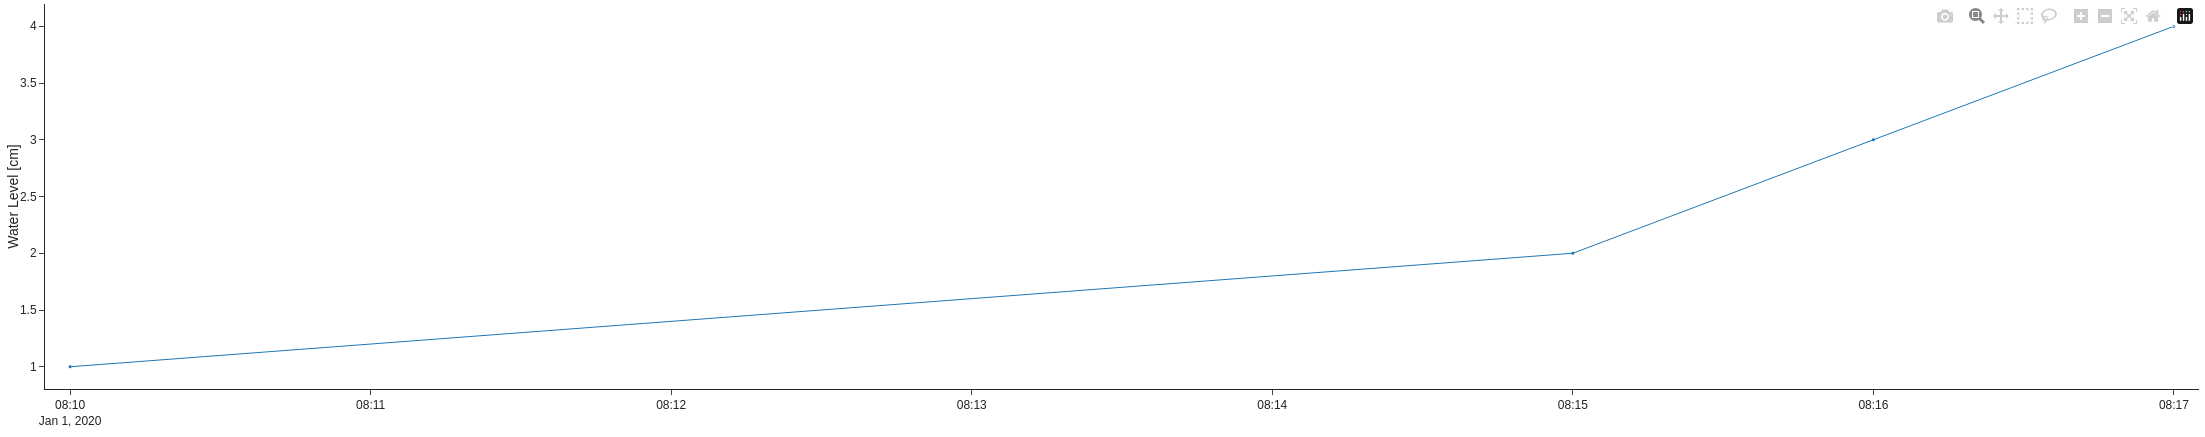
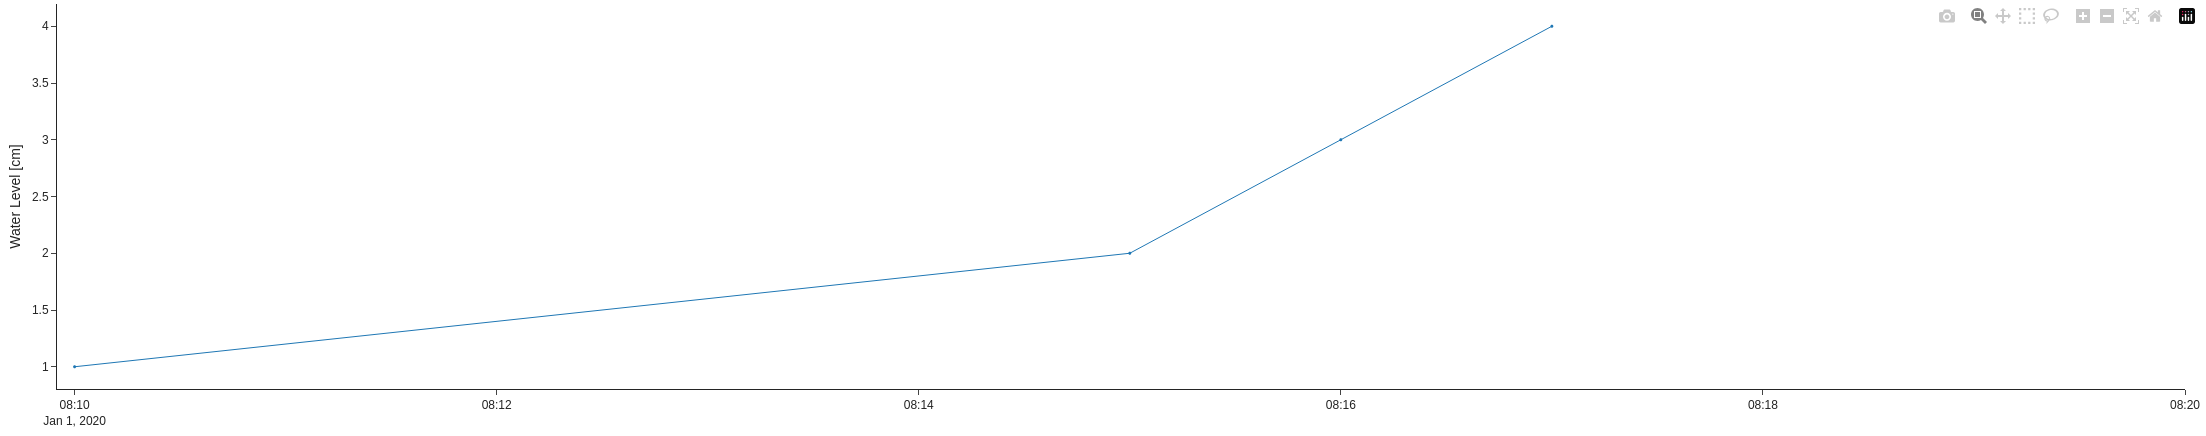
Add hdhelpers PyPI package to hetida designer requirements, remove any mention of TestPyPI, improve README.md

diff --git a/hdhelpers/README.md b/hdhelpers/README.md
@@ -25,20 +25,22 @@ All uv commands that need a python environment will use `.venv`, so you should u
 
 Finally, in case you need to add a new dependency, do so via `uv add <new_dependency>`. That way, uv finds versions of all dependencies that are compatible with each other.
 
-### Deploying Your Code
 Once you are done writing your code, including unit tests, use `./run check` to see if your code quality is sufficient.
 
-Before you build the package, , then set an appropriate [version number](https://packaging.python.org/en/latest/discussions/versioning/#semantic-versioning) in `pyproject.toml`.
+To use your local hdhelpers code in a hetida designer development setup, use the nix-shell setup by executing the following commands:
+```
+nix-shell --pure
+overmind s
+```
+
+### Deploying Your Code
+Before you build the package, set an appropriate version number in `pyproject.toml` that matches the version number in the hedita designer `VERSION` file.
 
 To build the package and delete any files that are currently in the `dist` subdirectory, execute `rm -r dist && uv build`. [Hatchling](https://pypi.org/project/hatchling/), the build backend specified in `pyproject.toml`, will build a new sdist and wheel in the `dist` subdirectory.
 
-The hetida designer docker compose dev setup installs hdhelpers from [TestPyPI](https://packaging.python.org/en/latest/guides/using-testpypi/) using the following command in the `Dockerfile-runtime`:
-```
-RUN pip install -U --index-url https://test.pypi.org/simple/ --extra-index-url https://pypi.org/simple/ hdhelpers
-```
-**Note: TestPyPI occasionally deletes projects to free up disk space. If your hetida designer docker compose dev setup cannot find hdhelpers, make sure the project is still on TestPyPI before following other debugging approaches!**
+To publish the build from the `dist` subdirectory to PyPI, use `uv publish`. To do so, you need a PyPI account with a token to enter in the command line as password following the username "\_\_token__", and you need maintainer or owner access to the [hdhelpers PyPI project](https://pypi.org/project/hdhelpers/).
 
-To publish the build from the `dist` subdirectory to TestPyPI, use `uv publish --index testpypi`. To do so, you need a TestPyPI account with a token to enter in the command line as password following the username "\_\_token__".
+The hetida designer docker compose setup installs hdhelpers from [PyPI](https://pypi.org) as it does with any dependency listet in `runtime/requirements.in`.
 
 Next time your hetida designer docker compose dev setup builds the runtime container, it will install the hdhelpers version that you just deployed.
 
@@ -48,9 +50,11 @@ Let's say we want to plot the following timeseries in a style that looks good on
 {
     "__hd_wrapped_data_object__":"SERIES",
     "__metadata__": {
+        "single_metric_dataset_metadata": {
+            "ref_interval_end_timestamp":"2020-01-01T08:20:00.000Z",
+            "ref_interval_start_timestamp": "2020-01-01T08:10:00.000Z"
+        },
         "single_metric_metadata": {
-            "ref_interval_end_timestamp":"2020-01-01T08:17:00.000Z",
-            "ref_interval_start_timestamp": "2020-01-01T08:10:00.000Z",
             "structured_metadata": {
                 "metric": {
                     "short_display_name": "Water Level",
@@ -59,52 +63,53 @@ Let's say we want to plot the following timeseries in a style that looks good on
             }
         }
     },    "__data__": {
-        "2020-01-01T08:10:00.000Z": 1,
-        "2020-01-01T08:15:00.000Z": 2,
-        "2020-01-01T08:16:00.000Z": 3,
-        "2020-01-01T08:17:00.000Z": 4
+        "2020-01-01T08:10:00+00:00": 1,
+        "2020-01-01T08:15:00+00:00": 2,
+        "2020-01-01T08:16:00+00:00": 3,
+        "2020-01-01T08:17:00+00:00": 4
     }
 }
 ```
 Our component code might look like this:
 ```
-from hdhelpers import get_and_pad_start_and_end_timestamp, get_title_with_unit, modify_timezone, plotly_fig_to_json_dict
+from hdhelpers import get_and_pad_start_and_end_timestamp, get_y_axis_label, modify_timezone, plotly_fig_to_json_dict
 import plotly.graph_objects as go
 ...
-def main(*, series, timezone):
+def main(*, series):
     # entrypoint function for this component
     # ***** DO NOT EDIT LINES ABOVE *****
     # write your function code here.
-    series = modify_timezone(series, timezone)
+    series = modify_timezone(series)
 
     fig = go.Figure([go.Scatter(x=series.index, y=series.values)])
 
-    start, end = get_and_pad_start_and_end_timestamp(series=series, timezone=timezone, start_padding='5s', end_padding='5s')
+    start, end = get_and_pad_start_and_end_timestamp(series=series, start_padding='5s')
     fig.update_xaxes(range=(start, end))
 
-    full_title = get_title_with_unit(series=series, default_title="Level")
+    full_title = get_y_axis_label(series=series, default_title="Level")
     fig.update_layout(yaxis_title=full_title)
 
-    return {"plot": plotly_fig_to_json_dict(fig=fig, use_platform_defaults=True)}
+    return {"plot": plotly_fig_to_json_dict(fig=fig)}
 ```
-First, we use `modify_timezone` to set the timezone. Setting it to a string containing "plot_target", like "plot_target_timezone" or "plot_target_settings", will use the dashboard's timezone, but throw an exception if no such timezone is defined. Therefore, we might want to enter the timezone as a component input parameter with a default value of "plot_target_timezone", so it can be set to another value when the component is executed outside of the hetida platform.
+First, we use `modify_timezone` to set the timezone. Since our goal is just to make sure that the timestamps are timezone aware, not to convert it to a specific timezone, we do not pass a value for the `timezone` parameter. That way, if there is a `plot_target_timezone` set in `plot_target_settings`, that timezone will be used. Otherwise, the timestamps keep their current timezone or are converted to UTC if they are timezone naive.
 
 With the timezone-corrected data in place, we turn it into a plotly scatter plot called `fig`, that we can then style to our liking.
 
-Now, we use `get_and_pad_start_and_end_timestamp` for precise control over the x-axis range. We do not set `start` and `end` because we want to parse them from the series metadata. The timezone of the axis and that of the data should be the same, so we pass it to the function as `timezone` just like we did with `modify_timezone`. We also set a padding, so the markers of the first and last data point are not cut in half by the edge of the plot. With start and end parsed, we can update `fig`'s x-axis range.
+Now, we use `get_and_pad_start_and_end_timestamp` for precise control over the x-axis range. We do not set `start` and `end` explicitly because we want to parse them from the series metadata, which reflects the chosen interval for which plotting data was requested. This way, we can see that there is missing data from 8:18 to 8:20, where normally Plotly would not have included that time range in the plot. We do not pass a `timezone` for the same reasons as with `modify_timezone`. We also set a `start_padding`, so the markers of the first data point is not cut in half by the edge of the plot. With start and end parsed, we can update `fig`'s x-axis range.
 
-Next, we use `get_title_with_unit` so our y-axis can be labeled with the series metadata. With the above input series, title and unit will be parsed from the series metadata, but in case the component is ever run without series metadata, we provide a `default_title`, but we leave the `default_unit` at its empty default value. Then, we update `fig` with our title.
+Next, we use `get_y_axis_label` so our y-axis can be labeled with the series metadata. With the above input series, title and unit will be parsed from the series metadata, but in case the component is ever run without series metadata, we provide a `default_title`, but we leave the `default_unit` at its empty default value. Then, we update `fig` with our title.
 
-Lastly, we use `plotly_fig_to_json_dict` to apply standardized stylings of our choice and serialize the plotly figure into a json dict. We set `use_platform_defaults` to True to switch on all the styling options at once, as detailed in [Styling Flags](#flags).
+Lastly, we use `plotly_fig_to_json_dict` to apply standardized stylings of our choice and serialize the plotly figure into a json dict. All the standardized styling options are active by default, as detailed in [Styling Flags](#flags), so we do not have to set any for this example.
 
 As a result we get the following plot:
 
-![hdhelpers example plot](./../../docs/assets/hdhelpers_example_plot.png)
+![hdhelpers example plot](./../docs/assets/hdhelpers_example_plot.png)
 
 ### <a name="flags"></a> Styling Flags
 `use_platform_defaults=True` sets the following flags to `True`, which are by default `False`:
 * `hide_legend` sets the plotly layout parameter `showlegend=False` to hide the plot's legend
 * `hide_x_title` sets the plotly xaxes parameter `title_text=''` to hide the x-axis title
+* `remove_plotly_bar` sets the plotly figure's `displayModeBar` setting to `False` to remove the plotly bar from the plot
 * `update_x_axes_tickformat` sets the plotly xaxes parameter `tickformat` to the `datetime_tick_format` property the hetida platform writes into the hetida designer's `plot_target_settings` context variable (unless the property is `None`)
 * `use_default_standoff` sets the plotly yaxes parameter `title_standoff=5`
 * `use_muplot_axes_color` sets the plotly xaxes and yaxes parameter `color` to the `axes_label_color` property the hetida platform writes into the hetida designer's `plot_target_settings` context variable (unless the property is `None`)
@@ -120,11 +125,9 @@ As a result we get the following plot:
 ```
 * `use_platform_background` sets the plotly layout parameter `paper_bgcolor` to the `background_color` property the hetida platform writes into the hetida designer's `plot_target_settings` context variable (unless the property is `None`) and it sets `plot_bgcolor=rgba(0,0,0,0)` so the "paper background" is visible through the "plot background"
 
-`plotly_fig_to_json_dict` has five more boolean parameters:
+`plotly_fig_to_json_dict` has four more boolean parameters:
 * `add_config_settings` sets the plotly figure's locale to the `plot_target_locale` property the hetida platform writes into the hetida designer's `plot_target_settings` context variable (unless the property is `None`)
-* `remove_plotly_bar` sets the plotly figure's `displayModeBar` setting to `False` to remove the plotly bar from the plot
 * `remove_plotly_icon` sets the plotly figure's `displaylogo` setting to `False` to remove the plotly logo from the plot
 * `use_minimum_margin` sets the plotly layout parameter `margin={"autoexpand": True, "l": 0, "r": 0, "b": 0, "t": 0, "pad": 0}` to minimize the plot's margins
+* `use_platform_colorway` sets the plotly layout parameter `colorway` to the `line_colors` property the hetida platform writes into the hetida designer's `plot_target_settings` context variable (unless the property is `None`). Note that in Plotly, explicitly set line colors have higher priority than those in the colorway, so setting this parameter to `False` is rarely necessary.
 * `use_simple_white_template` sets the plotly layout parameter `template=simple_white`
-
-Beyond that, there is one more thing `plotly_fig_to_json_dict` does: It sets the `colorway` to the `line_colors` in `plot_target_settings` (unless they are `None`). This cannot be turned off because the colorway is automatically overwritten by any explicitly set line color, so it being "always on" does not hinder plot customization.
